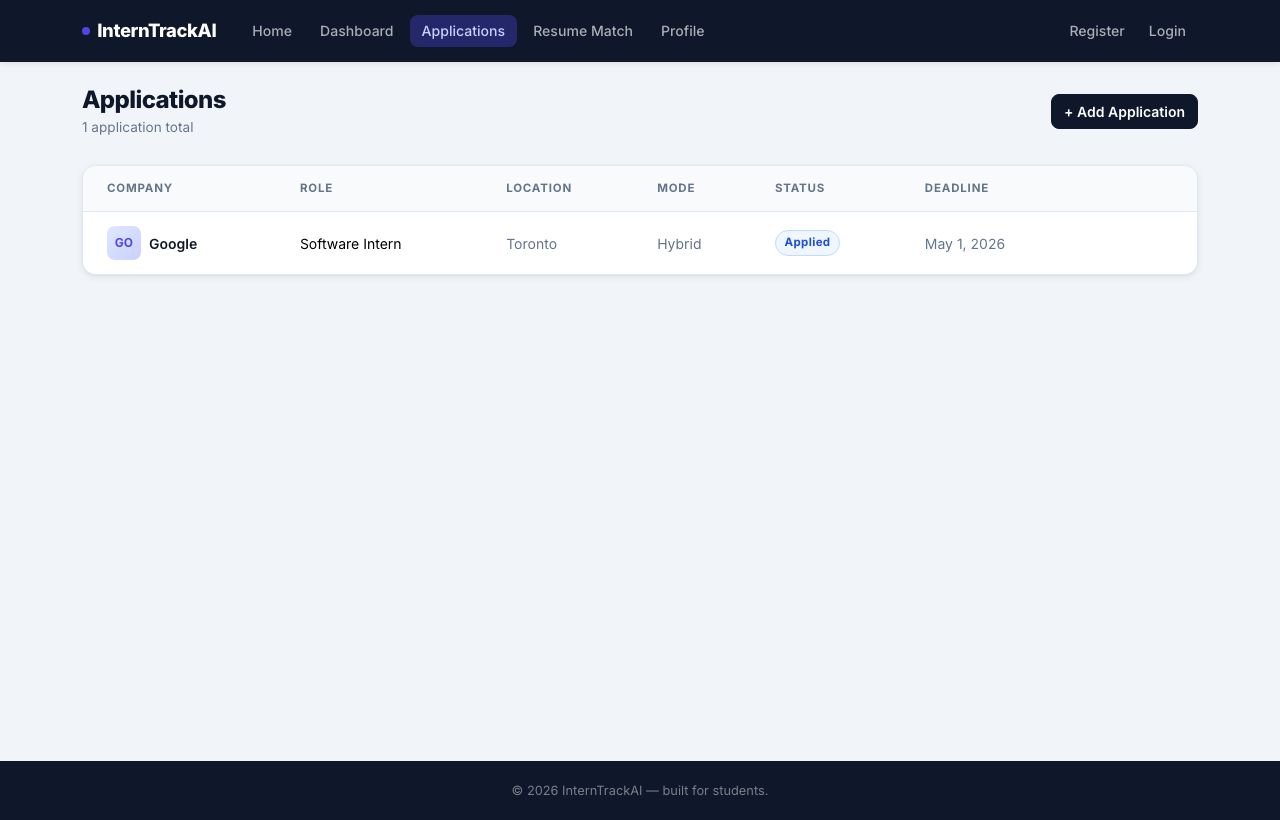
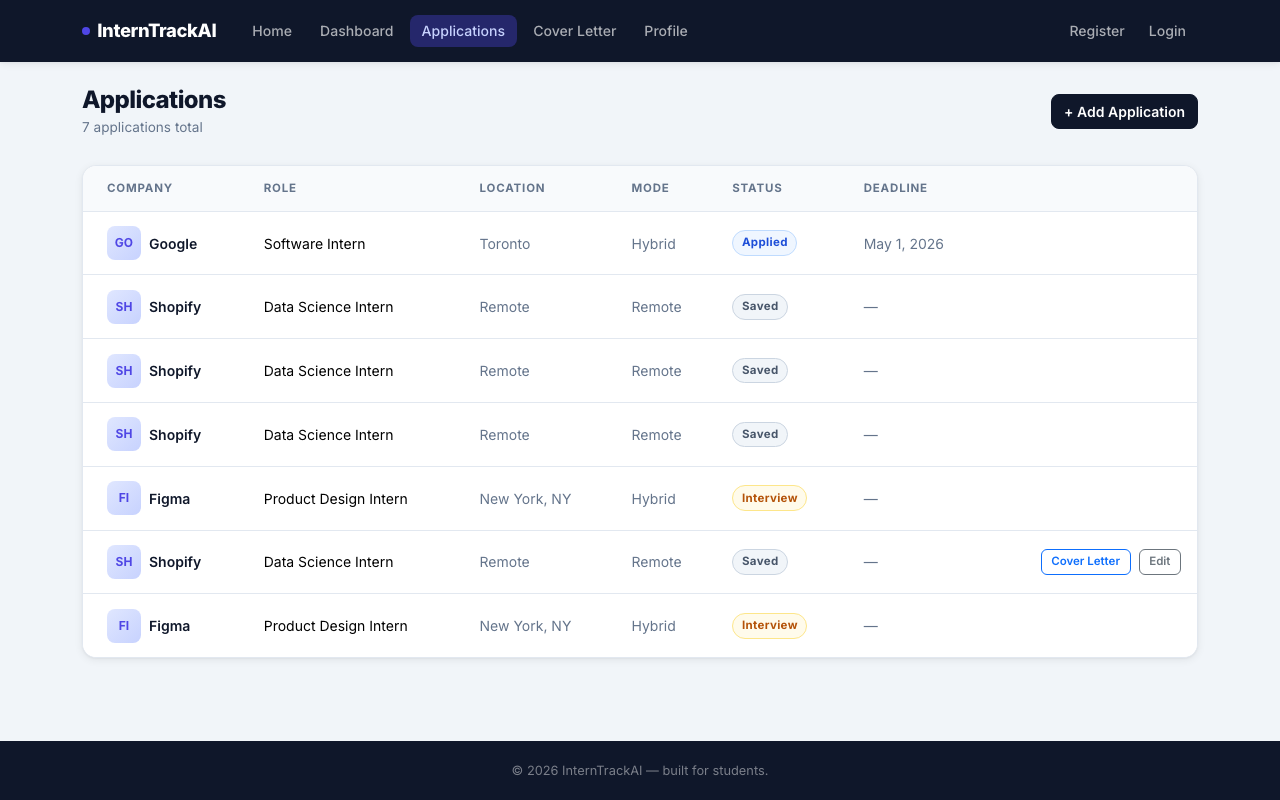
Add Phase 4 screenshots and update README
Documents the AI Cover Letter Generator (Phase 4): updated
applications screenshot shows the new Cover Letter button per row,
new cover_letter.png shows the generator page. README updated with
Phase 4 feature list, updated screenshot table, expanded tech stack
and project structure.

diff --git a/README.md b/README.md
@@ -1,6 +1,6 @@
 # InternTrackAI
 
-A full-stack internship application tracker built with ASP.NET Core 9 MVC. Track every application through the entire pipeline — from saved to offer — with AI-powered job analysis, resume matching, and a career portfolio system.
+A full-stack internship application tracker built with ASP.NET Core 9 MVC. Track every application through the entire pipeline — from saved to offer — with AI-powered job analysis, resume matching, cover letter generation, and a career portfolio system.
 
 ## Screenshots
 
@@ -12,13 +12,13 @@ A full-stack internship application tracker built with ASP.NET Core 9 MVC. Track
 |---|---|
 | ![Applications](docs/screenshots/applications.png) | ![Add Application](docs/screenshots/create.png) |
 
-| Profile | Sign In |
+| Cover Letter | Profile |
 |---|---|
-| ![Profile](docs/screenshots/profile.png) | ![Sign In](docs/screenshots/login.png) |
+| ![Cover Letter](docs/screenshots/cover_letter.png) | ![Profile](docs/screenshots/profile.png) |
 
-| Register | |
+| Sign In | Register |
 |---|---|
-| ![Register](docs/screenshots/register.png) | |
+| ![Sign In](docs/screenshots/login.png) | ![Register](docs/screenshots/register.png) |
 
 ## Features
 
@@ -46,6 +46,15 @@ A full-stack internship application tracker built with ASP.NET Core 9 MVC. Track
 - Application stats: total count, per-status breakdown, success rate percentage
 - AI Resume Score: sends active resume to GPT-4o-mini and returns a score, strengths, and specific improvement suggestions
 
+**Phase 4 — AI Cover Letter Generator (`/CoverLetter/Generate`)**
+- Select any tracked job application and click Generate — AI writes a personalized 3–4 paragraph cover letter
+- Pulls context from the job's description, your active resume, your profile skills, target roles, and name
+- Optional notes field to guide tone, length, or specific talking points
+- Editable output textarea with live word count, copy to clipboard, and download as PDF (client-side via jsPDF)
+- Save to profile with automatic version numbering and per-letter company/role snapshot
+- Saved letter history with Load, Set Active, Download (.txt), and Delete actions
+- "Cover Letter" button on every row of the Applications list for one-click access
+
 ## Tech Stack
 
 | Layer | Technology |
@@ -54,7 +63,7 @@ A full-stack internship application tracker built with ASP.NET Core 9 MVC. Track
 | Database | SQLite via Entity Framework Core 9 |
 | Auth | ASP.NET Core Identity |
 | AI | OpenAI API — GPT-4o-mini |
-| PDF | PdfPig (text extraction) |
+| PDF | PdfPig (server-side text extraction), jsPDF (client-side generation) |
 | Frontend | Bootstrap 5, Vanilla JS (fetch) |
 | Fonts | Inter (Google Fonts) |
 
@@ -105,26 +114,31 @@ Controllers/
   JobApplicationsController.cs  # CRUD for applications
   AnalyzerController.cs         # POST /Analyzer/Analyze — job description parser
   ProfileController.cs          # Full profile + document management + AI scoring
+  CoverLetterController.cs      # AI cover letter generation, save, download, delete
 
 Models/
   JobApplication.cs             # Core application entity
+  GeneratedCoverLetter.cs       # AI-generated cover letter entity (version history)
   UserProfile.cs                # Personal info, skills JSON, target roles JSON
   ResumeVersion.cs              # Resume file metadata + version history
   CoverLetterVersion.cs         # Cover letter file metadata + version history
   Enums/ApplicationStatus.cs    # Saved | Applied | Interview | Offer | Rejected
   Enums/WorkMode.cs             # Remote | Hybrid | OnSite
-  ViewModels/                   # DashboardViewModel, JobAnalysisResult,
-                                #   ResumeMatchResult, ResumeScoreResult, ProfileViewModel
+  ViewModels/                   # DashboardViewModel, CoverLetterGeneratorViewModel,
+                                #   JobAnalysisResult, ResumeMatchResult, ResumeScoreResult,
+                                #   ProfileViewModel
 
 Services/
   JobAnalyzerService.cs         # URL fetch + HTML strip + OpenAI extraction
   ResumeMatcherService.cs       # PDF text extraction + OpenAI match scoring
   ResumeScoreService.cs         # OpenAI resume quality scoring + suggestions
+  CoverLetterGeneratorService.cs # OpenAI cover letter generation
 
 Views/
   Home/Index.cshtml             # Hero landing page
   Home/Dashboard.cshtml         # Stats + recent applications table
   JobApplications/              # Index, Create (with AI analyzer), Edit, Delete
+  CoverLetter/Generate.cshtml   # AI cover letter generator + saved letter history
   Profile/Index.cshtml          # Career portfolio (all sections)
   Shared/_Layout.cshtml         # Main layout with dark navbar
   Shared/_AuthLayout.cshtml     # Split-screen auth layout